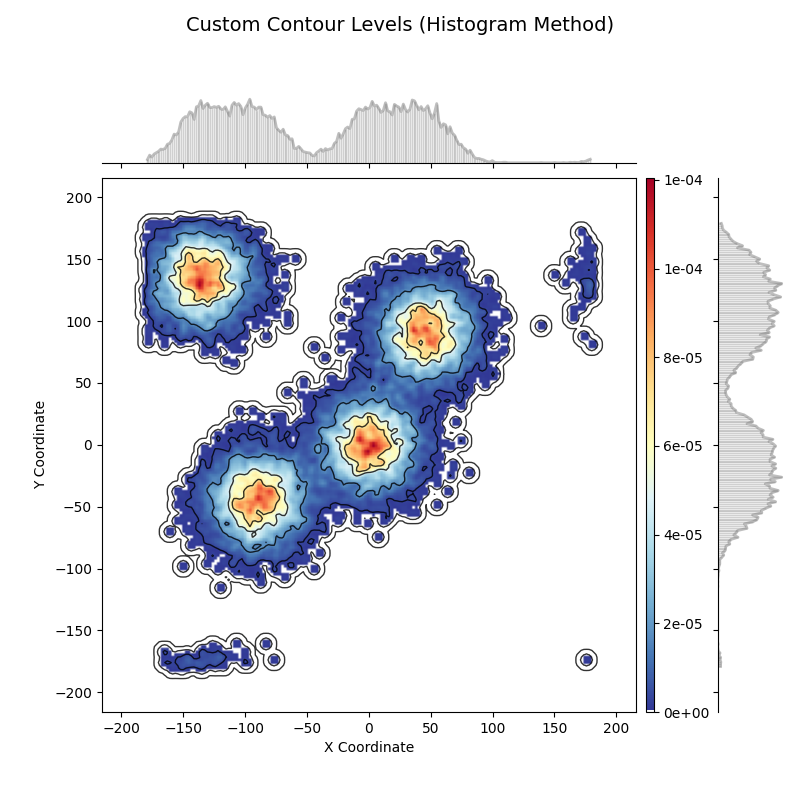
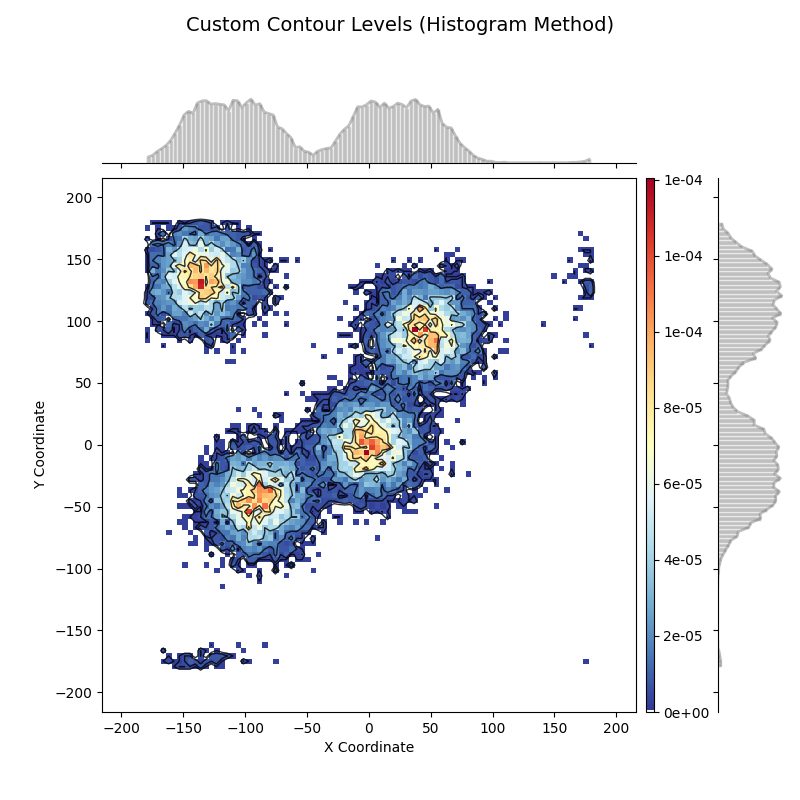
update

diff --git a/EnsembleAnalysis/utils/plot.py b/EnsembleAnalysis/utils/plot.py
@@ -341,7 +341,14 @@ def hist2d_contour_plot(x, y, bins=50, log_scale=True, contours=True,
     return fig, ax, hist, xedges, yedges, cbar_ax
 
 
-def hist2d_distXY_contour_plot(x, y, ax=None, fig=None, contour=True, contour_levels=None, contour_annotations=True, bins=50, hist_bins=30, method='kde', kde_bandwidth=None, sigma=1.0, cmap='RdYlBu_r', colorbar=False):
+def hist2d_distXY_contour_plot(x, y, ax=None, fig=None,
+                               contour=True, contour_levels=None,
+                               contour_annotations=True,
+                               bins=50, hist_bins=30,
+                               method='kde',
+                               cmap='RdYlBu_r',
+                               colorbar=False,
+                               **kwargs):
     """
     Plot 2D density-contour map with side histograms.
 
@@ -367,12 +374,15 @@ def hist2d_distXY_contour_plot(x, y, ax=None, fig=None, contour=True, contour_le
         Method for density estimation: 'kde' or 'histogram'
         - 'kde': Kernel Density Estimation (smooth, slower)
         - 'histogram': 2D histogram (faster, shows actual bin counts)
-    kde_bandwidth : float, optional
-        Bandwidth for KDE. If None, uses scipy default. Only used when method='kde'.
-    sigma : float, default 1.0
-        Gaussian filter sigma for smoothing density map
     colorbar : bool, default False
         Whether to add a colorbar to the plot
+    kwargs:
+        contour: True
+            show contour lines
+        kde_bandwridth: float. default: None
+            (use scipy default). only used when method='kde'
+        sigma : float, default 1.0
+            Gaussian filter sigma for smoothing density map
 
     Returns:
     --------
@@ -442,7 +452,7 @@ def hist2d_distXY_contour_plot(x, y, ax=None, fig=None, contour=True, contour_le
         X, Y = np.meshgrid(x_grid, y_grid)
 
         # Perform KDE
-        if kde_bandwidth is None:
+        if kwargs.get('kde_bandwidth', None):
             kde = gaussian_kde(np.vstack([x, y]))
         else:
             kde = gaussian_kde(np.vstack([x, y]), bw_method=kde_bandwidth)
@@ -452,7 +462,7 @@ def hist2d_distXY_contour_plot(x, y, ax=None, fig=None, contour=True, contour_le
         Z = kde(positions).reshape(X.shape)
 
         # Apply Gaussian smoothing
-        Z = gaussian_filter(Z, sigma=sigma)
+        Z = gaussian_filter(Z, sigma=kwargs.get('sigma', 1.0))
 
         extent = [x_min - x_pad, x_max + x_pad, y_min - y_pad, y_max + y_pad]
 
@@ -463,9 +473,6 @@ def hist2d_distXY_contour_plot(x, y, ax=None, fig=None, contour=True, contour_le
                                                     [y_min - y_pad, y_max + y_pad]],
                                              density=True)
         Z = Z.T  # Transpose to match imshow orientation
-
-        # Apply Gaussian smoothing
-        Z = gaussian_filter(Z, sigma=sigma)
 
         # Create coordinate arrays for contour plotting
         x_centers = (x_edges[:-1] + x_edges[1:]) / 2
@@ -489,7 +496,7 @@ def hist2d_distXY_contour_plot(x, y, ax=None, fig=None, contour=True, contour_le
 
     # Create colorbar if requested
     cbar_ax = None
-    if colorbar:
+    if kwargs.get('colorbar', True):
         # Create colorbar without using divider to preserve sharex functionality
         # Manually create colorbar axes
         main_pos = ax_main.get_position()
@@ -532,7 +539,7 @@ def hist2d_distXY_contour_plot(x, y, ax=None, fig=None, contour=True, contour_le
     ax_main._adjust_histograms = adjust_histogram_positions
 
     # Plot contours if requested
-    if contour:
+    if kwargs.get('contour', True):
         if contour_levels is None:
             # # Automatically determine contour levels in log scale
             # z_max = Z.max()
@@ -550,7 +557,7 @@ def hist2d_distXY_contour_plot(x, y, ax=None, fig=None, contour=True, contour_le
                             linewidths=1, alpha=0.8)
 
         # Add contour labels
-        if contour_annotations:
+        if kwargs.get('contour_annotations', False):
             ax_main.clabel(CS, inline=True, fontsize=8, fmt='%.1e')
 
     # Plot side histograms
@@ -588,6 +595,47 @@ def hist2d_distXY_contour_plot(x, y, ax=None, fig=None, contour=True, contour_le
     ax_histy.set_xlim(left=0)
 
     return fig, ax_main, ax_histx, ax_histy, cbar_ax
+
+
+def pairwise_headmap(matrix, ax, ticks_labels=None, **kwargs):
+
+    num_indices = matrix.shape[0]
+    cmap =  kwargs.get('cmap', 'RdYlBu_r')
+
+    # Create the main heatmap using imshow with combined colors
+    im = ax.imshow(matrix, cmap=cmap, aspect='equal')
+
+    # Add grid lines to mimic heatmap appearance
+    ax.set_xlim(-0.5, num_indices - 0.5)
+    ax.set_ylim(num_indices - 0.5, -0.5)
+
+    # Add subtle grid lines
+    for i in range(num_indices + 1):
+        ax.axhline(i - 0.5, color='white', linewidth=0.1)
+        ax.axvline(i - 0.5, color='white', linewidth=0.1)
+
+    # Determine tick positions - show every nth residue to avoid crowding
+    if num_indices <= 20:
+        tick_step = 1
+    elif num_indices <= 50:
+        tick_step = 5
+    elif num_indices <= 100:
+        tick_step = 10
+    else:
+        tick_step = 20
+
+    tick_positions = list(range(0, num_indices, tick_step))
+    if ticks_labels is None:
+        ticks_labels = [ str(i) for i in np.arange(1, num_indices+1, 1)]
+    # Set tick labels (centered in bins)
+    ax.set_xticks(np.array(tick_positions))
+    ax.set_xticklabels(ticks_labels, rotation=0)
+    ax.set_yticks(np.array(tick_positions) )
+    ax.set_yticklabels(ticks_labels, rotation=90)
+
+    divider = make_axes_locatable(ax)
+    cax = divider.append_axes("right", size="3%", pad=0.1)
+    cbar = plt.colorbar(im, cax=cax)
 
 
 # Some helper functon to generate synthetic data
@@ -887,7 +935,7 @@ if __name__ == "__main__":
     # 2d density plot + colorbar + histogram in X and Y directions
     fig3, ax_main3, ax_histx3, ax_histy3, cbar = hist2d_distXY_contour_plot(
     x_angles.flatten(), y_angles.flatten(), method='histogram', contour=True,
-    bins=200, hist_bins=200, colorbar=True, contour_annotations=False,
+    bins=100, hist_bins=100, colorbar=True, contour_annotations=False,
     )
     ax_main3.set_xlabel('X Coordinate')
     ax_main3.set_ylabel('Y Coordinate')
@@ -901,7 +949,7 @@ if __name__ == "__main__":
     plt.savefig("../../examples/plot_2dhistcontour.png")
     plt.show()
 
-
+    """
     ### more test
     fig = plt.figure(figsize=(8, 8))
     gs = GridSpec(2, 2, width_ratios=[2, 8],
@@ -917,7 +965,7 @@ if __name__ == "__main__":
 
     fig, ax_main3, ax_histx3, ax_histy3, cbar = hist2d_distXY_contour_plot(
     x_angles.flatten(), y_angles.flatten(), ax=ax3, fig=fig, method='histogram', contour=True,
-    bins=200, hist_bins=200, colorbar=True, contour_annotations=False,
+    bins=100, hist_bins=100, colorbar=True, contour_annotations=False,
     )
     fig3.suptitle('Custom Contour Levels (Histogram Method)', fontsize=14)
     ax_main3.set_aspect('equal')
@@ -931,4 +979,14 @@ if __name__ == "__main__":
     ax_main3._adjust_histograms()
     # plt.tight_layout()
     plt.savefig("../../examples/plot_2dhistogram.png")
+    plt.show()
+    """
+
+    # test heatmap
+    test_matrix = np.random.rand(20, 20)
+    fig, ax = plt.subplots(figsize=(8, 6))
+    pairwise_headmap(test_matrix, ax)
+    ax.grid(visible=False)
+    plt.tight_layout()
+    plt.savefig("../../examples/plot_heatmap.png")
     plt.show()

diff --git a/EnsembleAnalysis/core/ensemble.py b/EnsembleAnalysis/core/ensemble.py
@@ -108,11 +108,14 @@ def angles_per_frame(frame_index, atomgroup, atom1_name, atom2_name, atom3_name)
     """
     atomgroup.universe.trajectory[frame_index]
     angles = [angle.value() for angle in atomgroup.angles \
-              if (angle.atoms[0].name == atom1_name and angle.atoms[1].name == atom2_name and angle.atoms[2].name == atom3_name) or \
-                (angle.atoms[0].name == atom3_name and angle.atoms[1].name == atom2_name and angle.atoms[2].name == atom1_name)]
+              if (angle.atoms[0].name == atom1_name and angle.atoms[1].name == atom2_name \
+                and angle.atoms[2].name == atom3_name) or \
+                (angle.atoms[0].name == atom3_name and angle.atoms[1].name == atom2_name \
+                and angle.atoms[2].name == atom1_name)]
     return np.array(angles)
 
-def dihedrals_per_frame(frame_index, atomgroup, atom1_name, atom2_name, atom3_name, atom4_name):
+def dihedrals_per_frame(frame_index, atomgroup, atom1_name,
+                        atom2_name, atom3_name, atom4_name):
     """
     atomgroup: atomgroup from MDAnalysis
     atom1_name: atomname of the first atom
@@ -123,8 +126,10 @@ def dihedrals_per_frame(frame_index, atomgroup, atom1_name, atom2_name, atom3_na
     """
     atomgroup.universe.trajectory[frame_index]
     dihedral = [dihedral.value() for dihedral in atomgroup.dihedrals \
-              if (dihedral.atoms[0].name == atom1_name and dihedral.atoms[1].name == atom2_name \
-                  and dihedral.atoms[2].name == atom3_name and dihedral.atoms[3].name == atom4_name)]
+              if (dihedral.atoms[0].name == atom1_name \
+                  and dihedral.atoms[1].name == atom2_name \
+                  and dihedral.atoms[2].name == atom3_name \
+                  and dihedral.atoms[3].name == atom4_name)]
     return np.array(dihedral)
 
 def bb_impropers_per_frame(frame_index, atomgroup):
@@ -187,7 +192,8 @@ class Ensemble:
             rmsd_matrix[2]: rmsd of align_select
             rmsd_matrix[3-]: rmsd of rmsd_list
         """
-        R = rms.RMSD(self.universe, self.ref_universe, select=align_select, groupselections=rmsd_list)
+        R = rms.RMSD(self.universe, self.ref_universe,
+                     select=align_select, groupselections=rmsd_list)
         R.run()
         return R.results.rmsd.T
 
@@ -517,6 +523,67 @@ class Ensemble:
         return impropers
 
 
+
+class IdpEnsemble(Ensemble):
+    def __init__(self):
+        super().__init__()
+
+    # distance matrics: from https://doi.org/10.1016/j.bpj.2020.05.015
+    def distance_matrics():
+        """
+        Analyze pairwise C-alpha distances in intrinsically disordered proteins.
+
+        Returns:
+        --------
+        combined_matrix : np.ndarray
+            Combined matrix with median values in upper triangle and
+            standard deviations in lower triangle
+        median_matrix : np.ndarray
+            Matrix of median pairwise distances
+        std_matrix : np.ndarray
+            Matrix of standard deviations of pairwise distances
+        """
+        # Select C-alpha atoms
+        ca_atoms = self.universe.select_atoms('name CA')
+        n_residues = len(ca_atoms)
+
+        print(f"Found {n_residues} C-alpha atoms")
+        print(f"Analyzing {len(u.trajectory)} frames")
+
+        # Initialize array to store all pairwise distances for each frame
+        all_distances = np.zeros((len(self.universe.trajectory), n_residues, n_residues))
+
+        # Calculate pairwise distances for each frame
+        for i, ts in enumerate(self.universe.trajectory):
+            if i+1 % 100 == 0:
+                print(f"Processing frame {i}/{len(self.universe.trajectory)}")
+
+            # Get coordinates of C-alpha atoms
+            ca_coords = ca_atoms.positions
+
+            # Calculate pairwise distance matrix
+            dist_matrix = distance_array(ca_coords, ca_coords)
+            all_distances[i] = dist_matrix
+
+        # Calculate median and standard deviation matrices
+        median_matrix = np.median(all_distances, axis=0)
+        std_matrix = np.std(all_distances, axis=0)
+
+        # Create combined matrix
+        combined_matrix = np.zeros_like(median_matrix)
+
+        # Upper triangle (including diagonal) gets median values
+        upper_indices = np.triu_indices(n_residues)
+        combined_matrix[upper_indices] = median_matrix[upper_indices]
+
+        # Lower triangle gets standard deviation values
+        lower_indices = np.tril_indices(n_residues, k=-1)
+        combined_matrix[lower_indices] = std_matrix[lower_indices]
+
+        # Create residue labels
+        residue_labels = [f"{res.resname}{res.resid}" for res in ca_atoms.residues]
+
+        return combined_matrix, median_matrix, std_matrix, residue_labels
 
 
 

diff --git a/README.md b/README.md
@@ -87,3 +87,18 @@ plt.show()
 
 ![example2](./examples/plot_2dhistcontour.png)
 
+
+## Heatmap for pariwise matrix visualization
+
+```python
+# test heatmap
+test_matrix = np.random.rand(20, 20)
+fig, ax = plt.subplots(figsize=(8, 6))
+pairwise_headmap(test_matrix, ax)
+ax.grid(visible=False)
+plt.tight_layout()
+# plt.savefig("../../examples/plot_heatmap.png")
+plt.show()
+```
+
+![example3](./examples/plot_heatmap.png)
